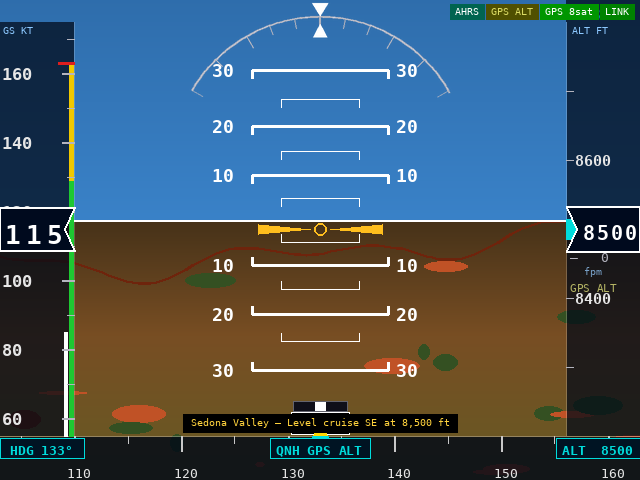
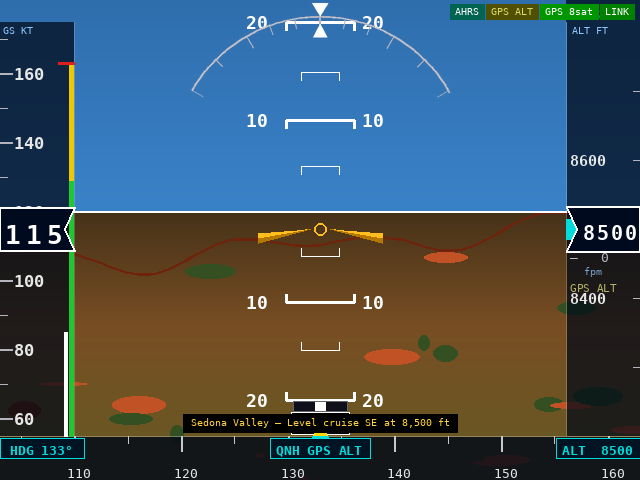
Fix pitch ladder scale/width, tape ticks, and aircraft symbol depth
Pitch ladder (both files):
- Scale corrected: preview focal 260→520 (doubles px/degree spacing),
  pfd.py px_per_deg fixed to 10.0 with corrected sign convention so ladder
  aligns with background horizon; now shows ±20° range instead of ±8°/±50°
- Line widths halved: major 14%→7% of AI width, minor 8%→4%
- Background horizon px_per_deg set to 10.0 to match ladder in pfd.py

Tape tick marks (both files):
- Speed tape: ticks moved to screen-edge (left), labels follow ticks
- Altitude tape: ticks moved to screen-edge (right), labels at ALT_X+4

Aircraft symbol (both files):
- Outer wing tips droop ~9 px (10° dihedral angle over wing span)
- Upper half AMBER, lower half AMBER_DARK for depth/shadow effect
- pfd.py uses gfxdraw aapolygon for smooth outer edge

https://claude.ai/code/session_017SH8gTHM3ctk1qfSPqffyG

diff --git a/pi_display/pfd.py b/pi_display/pfd.py
@@ -214,7 +214,7 @@ def draw_simple_ai_background(surf, ai_rect, pitch, roll):
     cw, ch = aw + pad * 2, ah + pad * 2
     canvas = pygame.Surface((cw, ch))
 
-    px_per_deg = ch / 38.0
+    px_per_deg = 10.0
     hy = ch // 2 + int(pitch * px_per_deg)  # horizon y in canvas
 
     # ── Sky gradient ──────────────────────────────────────────────────────────
@@ -276,8 +276,7 @@ def draw_pitch_ladder(surf, ai_rect, pitch, roll):
     ax, ay, aw, ah = ai_rect
     cx, cy = ax + aw // 2, ay + ah // 2
 
-    focal      = 260.0
-    px_per_deg = focal   # pixels per degree at center
+    px_per_deg = 10.0   # 10 display pixels per degree of pitch
 
     # Render on a transparent canvas, then rotate
     pad = int(max(aw, ah) * 0.75)
@@ -285,17 +284,17 @@ def draw_pitch_ladder(surf, ai_rect, pitch, roll):
     canvas = pygame.Surface((cw, ch), pygame.SRCALPHA)
     ccx, ccy = cw // 2, ch // 2
 
-    pitch_px = int(pitch * px_per_deg / 10.0)   # 10 px / degree approx
+    pitch_px = int(pitch * px_per_deg)
 
     # Line half-widths based on AI width.
-    # GI-275 style: major ~14% each side, minor ~8%.
-    major_half = int(aw * 0.14)   # ~69 px
-    minor_half = int(aw * 0.08)   # ~39 px
+    # GI-275 style: major ~7% each side, minor ~4%.
+    major_half = int(aw * 0.07)   # ~34 px
+    minor_half = int(aw * 0.04)   # ~19 px
 
     for deg in range(-30, 35, 5):
         if deg == 0:
             continue
-        row_y = ccy - pitch_px - int(deg * px_per_deg / 10.0)
+        row_y = ccy + pitch_px - int(deg * px_per_deg)
         if not (10 < row_y < ch - 10):
             continue
         major = (deg % 10 == 0)
@@ -318,7 +317,7 @@ def draw_pitch_ladder(surf, ai_rect, pitch, roll):
             canvas.blit(img, (ccx + half + 4, row_y - 9))
 
     # Horizon line (0°) — same width as major pitch lines
-    hy = ccy - pitch_px
+    hy = ccy + pitch_px
     if 0 < hy < ch:
         pygame.draw.line(canvas, (255, 255, 255, 200),
                          (ccx - major_half, hy), (ccx + major_half, hy), 2)
@@ -428,15 +427,23 @@ def draw_aircraft_symbol(surf):
     gap = 10   # distance from centre to inner base of each triangle
     h   = 5    # half-height at the triangle base
 
-    # Left wing: base at wingtip, tip pointing inward toward centre
-    ltri = [(CX - ws, CY - h), (CX - ws, CY + h), (CX - gap, CY)]
-    pygame.gfxdraw.filled_polygon(surf, ltri, AMBER)
-    pygame.gfxdraw.aapolygon(surf, ltri, AMBER)
+    droop = int((ws - gap) * math.tan(10 * DEG))   # ~9 px dihedral droop at tip
 
-    # Right wing: mirror
-    rtri = [(CX + ws, CY - h), (CX + ws, CY + h), (CX + gap, CY)]
-    pygame.gfxdraw.filled_polygon(surf, rtri, AMBER)
-    pygame.gfxdraw.aapolygon(surf, rtri, AMBER)
+    # Left wing — upper half AMBER, lower half darker, full outline AA
+    l_top  = [(CX - ws, CY - h + droop), (CX - ws, CY + droop),     (CX - gap, CY)]
+    l_bot  = [(CX - ws, CY + droop),     (CX - ws, CY + h + droop), (CX - gap, CY)]
+    l_full = [(CX - ws, CY - h + droop), (CX - ws, CY + h + droop), (CX - gap, CY)]
+    pygame.gfxdraw.filled_polygon(surf, l_top, AMBER)
+    pygame.gfxdraw.filled_polygon(surf, l_bot, AMBER_DARK)
+    pygame.gfxdraw.aapolygon(surf, l_full, AMBER)
+
+    # Right wing — mirror
+    r_top  = [(CX + ws, CY - h + droop), (CX + ws, CY + droop),     (CX + gap, CY)]
+    r_bot  = [(CX + ws, CY + droop),     (CX + ws, CY + h + droop), (CX + gap, CY)]
+    r_full = [(CX + ws, CY - h + droop), (CX + ws, CY + h + droop), (CX + gap, CY)]
+    pygame.gfxdraw.filled_polygon(surf, r_top, AMBER)
+    pygame.gfxdraw.filled_polygon(surf, r_bot, AMBER_DARK)
+    pygame.gfxdraw.aapolygon(surf, r_full, AMBER)
 
     # Centre reference circle (open ring)
     pygame.gfxdraw.filled_circle(surf, CX, CY, 6, AMBER)
@@ -515,11 +522,11 @@ def draw_speed_tape(surf, speed, hdg_bug_spd=None):
         major = (v % 20 == 0)
         tl = 12 if major else 7
         pygame.draw.line(surf, LTGREY,
-                         (SPD_X + SPD_W - tl, vy), (SPD_X + SPD_W, vy),
+                         (SPD_X, vy), (SPD_X + tl, vy),
                          2 if major else 1)
         if major:
             _text(surf, str(v), 17, (230, 230, 230), bold=True,
-                  x=SPD_X + 2, y=vy - 9)
+                  x=SPD_X + tl + 2, y=vy - 9)
 
     # Speed readout box — concave notch on AI side (right edge), GI-275 style
     bh = 44
@@ -557,11 +564,11 @@ def draw_alt_tape(surf, alt, vspeed, baro_hpa, baro_src, alt_bug=None):
         major = (ft % 500 == 0)
         tl = 14 if major else 7
         pygame.draw.line(surf, LTGREY,
-                         (ALT_X, fy), (ALT_X + tl, fy),
+                         (ALT_X + ALT_W - tl, fy), (ALT_X + ALT_W, fy),
                          2 if major else 1)
         if ft % 200 == 0:
             _text(surf, str(ft), 15, (230, 230, 230), bold=True,
-                  x=ALT_X + tl + 2, y=fy - 8)
+                  x=ALT_X + 4, y=fy - 8)
 
     # Altitude bug
     if alt_bug is not None:

diff --git a/tools/preview_640x480.py b/tools/preview_640x480.py
@@ -128,7 +128,7 @@ def draw_scene(roll, pitch, hdg, alt, speed, vspeed, ay,
     ai_img  = Image.new('RGBA', (W*S, H*S), (0, 0, 0, 0))
     ai_draw = ImageDraw.Draw(ai_img)
 
-    focal    = 260.0
+    focal    = 520.0
     pitch_px = focal * math.tan(pitch * DEG)
     hy = H*2 + int(-pitch_px)   # horizon row in enlarged canvas (centred at H*2)
 
@@ -198,8 +198,8 @@ def draw_scene(roll, pitch, hdg, alt, speed, vspeed, ay,
 
     # Pitch ladder — half-widths in display pixels
     # GI-275: major ~14% AI width each side, minor ~8%
-    major_half = int(AI_W * 0.14)   # ~69 px
-    minor_half = int(AI_W * 0.08)   # ~39 px
+    major_half = int(AI_W * 0.07)   # ~34 px
+    minor_half = int(AI_W * 0.04)   # ~20 px
     fn18 = fnt(18, bold=True)
     for deg in range(-30, 35, 5):
         if deg == 0: continue
@@ -277,10 +277,10 @@ def draw_scene(roll, pitch, hdg, alt, speed, vspeed, ay,
         if not (TAPE_TOP + 15 < vy < TAPE_BOT - 15): continue
         major = (v % 20 == 0)
         tl = 12 if major else 7
-        draw.line([(SPD_X+SPD_W-tl, vy), (SPD_X+SPD_W, vy)],
+        draw.line([(SPD_X, vy), (SPD_X+tl, vy)],
                   fill=LTGREY, width=2 if major else 1)
         if major:
-            draw.text((SPD_X+2, vy-9), str(v), fill=(230,230,230), font=fnt(17, bold=True))
+            draw.text((SPD_X+tl+2, vy-9), str(v), fill=(230,230,230), font=fnt(17, bold=True))
 
     # Speed box — concave notch on AI (right) side
     bh = 44; by = TAPE_MID - bh//2
@@ -309,10 +309,10 @@ def draw_scene(roll, pitch, hdg, alt, speed, vspeed, ay,
         if not (TAPE_TOP + 12 < fy < TAPE_BOT - 12): continue
         major = (ft % 500 == 0)
         tl = 14 if major else 7
-        draw.line([(ALT_X, fy), (ALT_X+tl, fy)],
+        draw.line([(ALT_X+ALT_W-tl, fy), (ALT_X+ALT_W, fy)],
                   fill=LTGREY, width=2 if major else 1)
         if ft % 200 == 0:
-            draw.text((ALT_X+tl+2, fy-8), str(ft),
+            draw.text((ALT_X+4, fy-8), str(ft),
                       fill=(230,230,230), font=fnt(15, bold=True))
 
     # Altitude bug
@@ -461,11 +461,15 @@ def draw_scene(roll, pitch, hdg, alt, speed, vspeed, ay,
 
     # ── 7. AIRCRAFT SYMBOL — GI-275 style outward triangles + centre ring ────
     AMBER = (255, 190, 30)
+    AMBER_DARK = (180, 120, 0)
     ws = 62; gap = 10; h = 5
-    # Left wing triangle: base at wingtip, tip pointing inward toward centre
-    draw.polygon([(CX-ws, CY-h), (CX-ws, CY+h), (CX-gap, CY)], fill=AMBER)
-    # Right wing triangle: mirror
-    draw.polygon([(CX+ws, CY-h), (CX+ws, CY+h), (CX+gap, CY)], fill=AMBER)
+    droop = int((ws - gap) * math.tan(10 * DEG))   # ~9 px dihedral droop at tip
+    # Left wing — upper half lighter, lower half darker (depth shading)
+    draw.polygon([(CX-ws, CY-h+droop), (CX-ws, CY+droop),    (CX-gap, CY)], fill=AMBER)
+    draw.polygon([(CX-ws, CY+droop),   (CX-ws, CY+h+droop),  (CX-gap, CY)], fill=AMBER_DARK)
+    # Right wing — mirror
+    draw.polygon([(CX+ws, CY-h+droop), (CX+ws, CY+droop),    (CX+gap, CY)], fill=AMBER)
+    draw.polygon([(CX+ws, CY+droop),   (CX+ws, CY+h+droop),  (CX+gap, CY)], fill=AMBER_DARK)
     # Centre ring
     draw.ellipse([(CX-6, CY-6),(CX+6, CY+6)], outline=AMBER, width=2)
 
